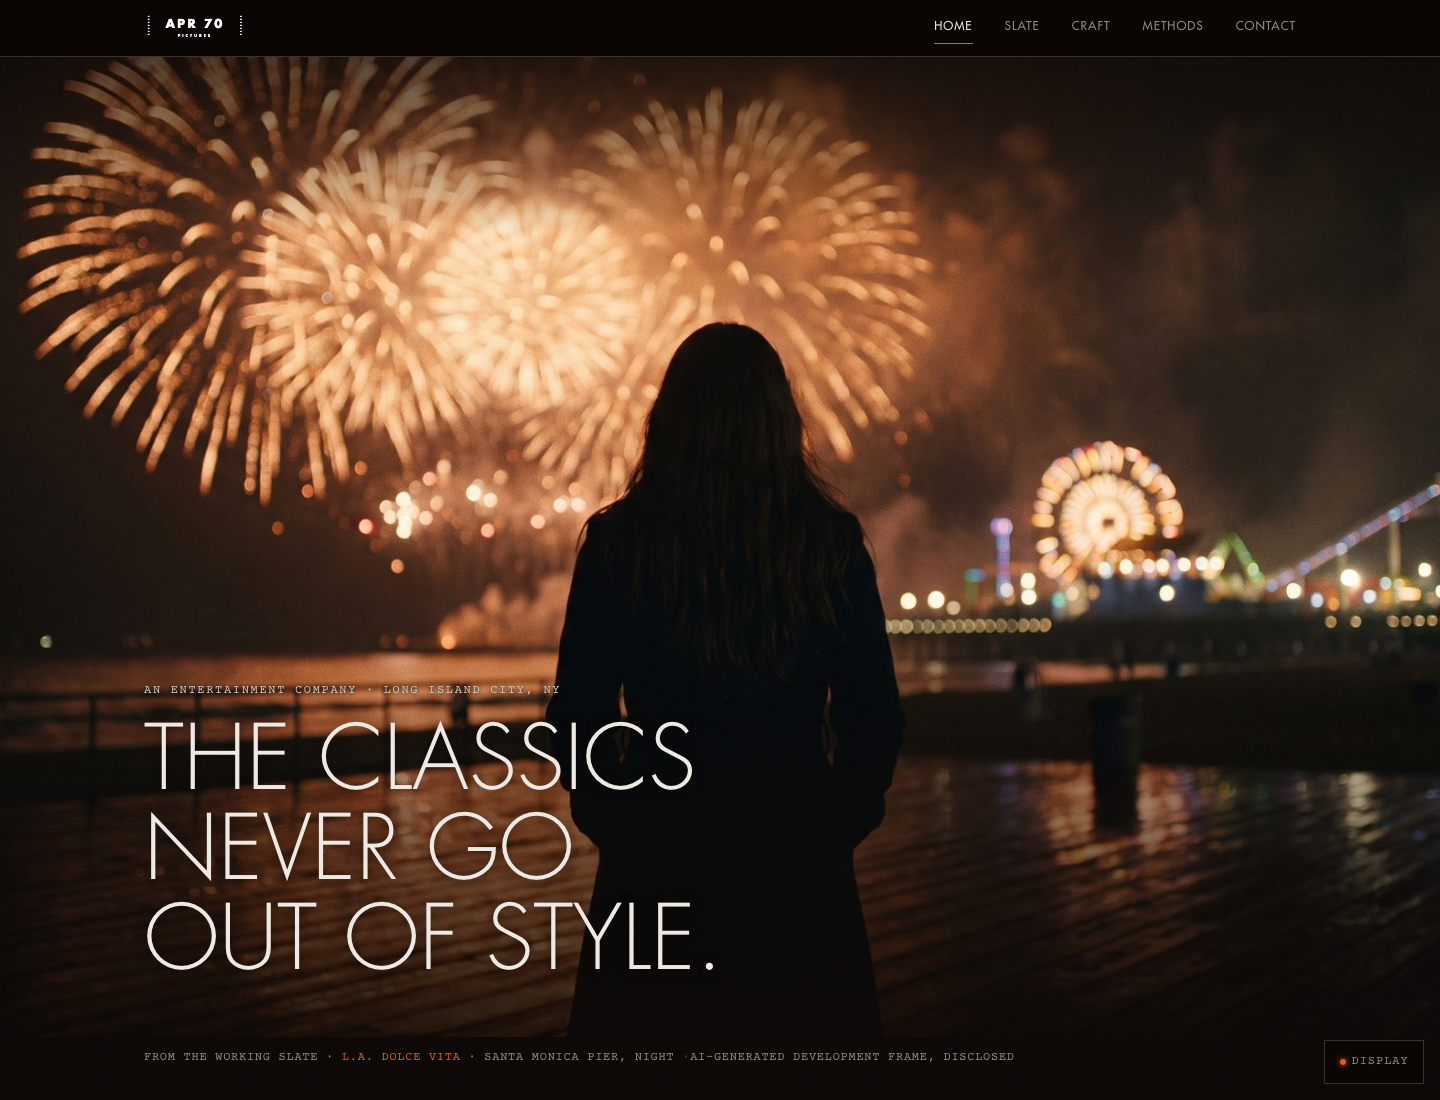
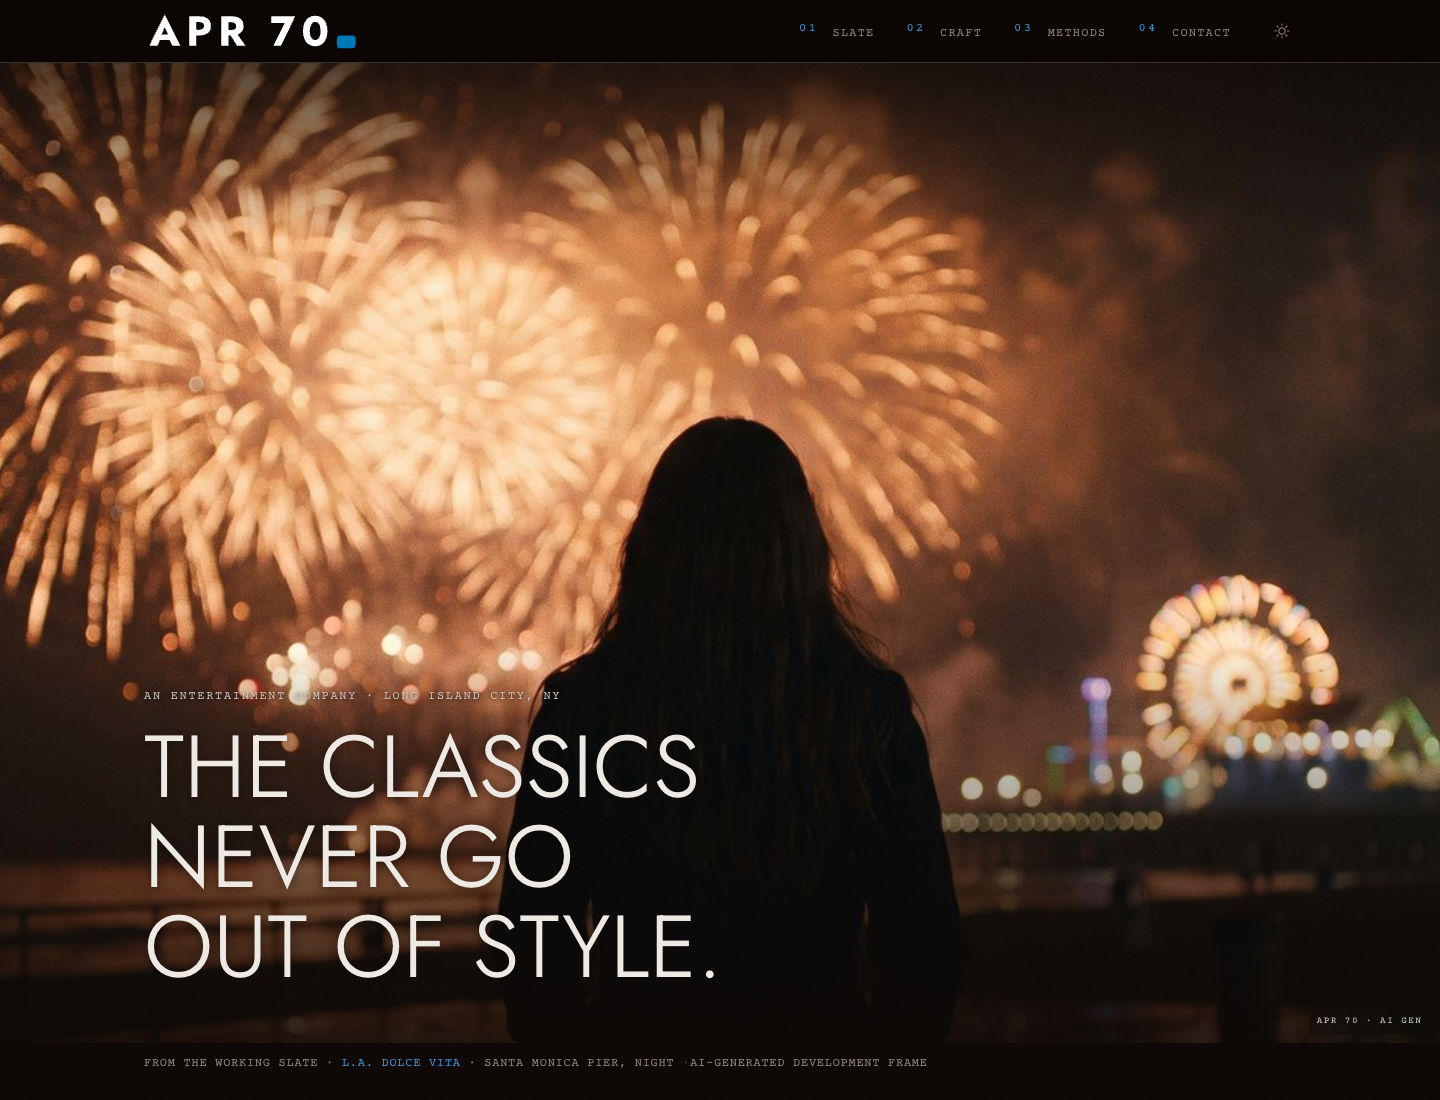
v14: SITE_VERSION bump, ledger row + refreshed shots, handoff archived, BRIEF/TASKS
Claude-Session: https://claude.ai/code/session_014yaFFbJ78r1ZF6rPhzZ7Kr

diff --git a/docs/recap/MASTER-RECAP.html b/docs/recap/MASTER-RECAP.html
@@ -217,7 +217,7 @@
       <div class="act"><b>The admin</b><p><a href="http://kimaserver:8080/admin">kimaserver:8080/admin</a> (or localhost:3000/admin in dev) · login caruso@apr70.com · password = <code>PAYLOAD_SEED_PASSWORD</code> in the NAS <code>/volume1/apps/apr70-pictures/.env</code>.</p></div>
       <div class="act"><b>Your brand controls</b><p>Admin → Globals → Site Settings → <b>Brand Kit</b>: logo, logo height, accent, rollover, highlight, default mode. Refresh the site and it wears the change.</p></div>
       <div class="act"><b>The Roll's names</b><p>Admin → Collections → <b>Founding Roll</b>. Emails and notes are visible only to you.</p></div>
-      <div class="act"><b>LIVE — the public site</b><p><a href="https://staging.apr70.com/">staging.apr70.com</a> serves <b>v13</b> as of 2026-07-18, with a valid certificate. Rollback via <code>deploy-v10-to-nas.sh --rollback</code> (or point the <code>apr70-staging</code> reverse-proxy rule back to the prior stack).</p></div>
+      <div class="act"><b>LIVE — the public site</b><p><a href="https://staging.apr70.com/">staging.apr70.com</a> serves <b>v14</b> as of 2026-09-03, with a valid certificate. Rollback via <code>deploy-v10-to-nas.sh --rollback</code> (or point the <code>apr70-staging</code> reverse-proxy rule back to the prior stack).</p></div>
       <div class="act"><b>LIVE — the front door</b><p><a href="https://apr70.com/">apr70.com</a> serves the holding page (source: <code>v10/holding/</code>), Web Station root <code>/volume1/web/apr70/</code>. Self-contained: zero third-party requests. The page it replaced leaked every visitor's IP to Google Fonts.</p></div>
       <div class="act"><b>⚠ www.apr70.com is broken</b><p>Its DNS A record points at <code>127.0.0.1</code> — for anyone on the internet, that is their own machine. It is why <code>www</code> could never be validated onto the TLS certificate. Fix the A record at Namecheap to <code>68.174.247.189</code>; until then <code>www</code> must be left OUT of any cert request or the whole issuance fails.</p></div>
       <div class="act"><b>Undo everything on the NAS</b><p><code>bash ~/websites/apr70-website/_deploy/deploy-v10-to-nas.sh --rollback</code> restores git, database, media, images from today's backup.</p></div>
@@ -265,7 +265,8 @@ cd ~/websites/apr70-website/v10/web && pnpm dev   # Astro on :4321</pre>
       <tr><td class="doc"><b>v10</b></td><td>2026-07-12</td><td>The truth, brand, and transaction pass: P0 privacy fix, Futura house face, Payload Brand Kit, divisions rebuilt per panel, Sea Gate + Da Hook to NRC, Founding Roll live, SharedData image fill, rights language, admin trim. Playwright 19/19. Deployed to kimaserver:8080; staging untouched.</td><td><a href="file:///Users/marco/vault/10%20Work/11%20APR70%20Pictures/11.14%20V10%20Build/00%20V10%20Change%20Register.md">V10 Change Register</a></td></tr>
       <tr><td class="doc"><b>v10</b> · UI + CMS pass</td><td>2026-07-13</td><td>Still v10 — the site is not being redesigned. Marquee lights around the property photos cut as true SVG circles (they were a repeating <code>radial-gradient(5px 4px …)</code> — an ellipse with a sub-pixel antialias ramp, which is why they never looked round at any zoom). Payload now reads <b>v10</b> everywhere, from a single <code>cms/src/siteVersion.ts</code> constant, so the admin can never lag the site again. DISPATCH un-hidden and parked behind a Payload switch: Site Settings → DISPATCH → Publish takes <code>/dispatch</code> live on refresh, no deploy; it ships OFF. Playwright 20/20.</td><td><a href="file:///Users/marco/vault/10%20Work/11%20APR70%20Pictures/11.03%20Company%20Ops/00%20Website%20-%20Version%20Status%20and%20Feedback.md">Website Version Status (vault)</a></td></tr>
       <tr><td class="doc"><b>v11</b></td><td>2026-07-13</td><td>Shipped and went public at staging.apr70.com (not the discarded design pass below — same number, different thing). Billing blocks to one source of truth, roll counter floored, slate hero frames, cursor restored, sprocket holes retired (option E), NRC ruled features-only, apr70.com one screen, <code>/troupe</code> built and gated dark on a real recording, favicons wired through Payload, division accents into Site Settings. E2e repeatable.</td><td><a href="file:///Users/marco/vault/10%20Work/11%20APR70%20Pictures/11.03%20Company%20Ops/00%20Website%20-%20Version%20Status%20and%20Feedback.md">Website Version Status (vault)</a></td></tr>
-      <tr><td class="doc"><b>v13</b> <span class="tag hot">CURRENT</span></td><td>2026-07-18</td><td>The chrome unification pass, three moves ruled by Marco 2026-07-18: the header nav now wears the route line's exact clothes — mono face, accent-blue superscript indices (01–04), underline retired, active route in ink — so the two menus read as one system (the route line stays on the front page as the zine's contents line; the header is the chrome); the mode icon is finally level with the nav for good — root cause fixed (the nav row aligned on <code>baseline</code>, which an svg-only button does not have; the row centres now, and the three prior pixel-nudges are deleted); and the property galleries gained the <b>cinema view</b> — click the picture (or the expand button) and it opens at full browser width on the house scrim, not the Fullscreen API, with the site's one slideshow: PLAY advances every 4.5&nbsp;s, any manual move stops it, ESC or × closes, scroll locks while open, focus returns to the button. Voice ruling: the site keeps the studio "we" (the JSON-LD already names the founder); no copy touched. The Light Law was recorded for the next stills pass (prompts from the script, natural light, less Hollywood — <code>tools/still-regen/LIGHT-LAW.md</code>). <b>DEPLOYED to staging.apr70.com 2026-07-18</b>; rollback via <code>deploy-v10-to-nas.sh --rollback</code>. <i>Ledger note 2026-09-02:</i> the v12.1 Futura takedown and v12.2 Punch passes (2026-07-27, rows below) shipped after this row under the unchanged <code>v13</code> constant, so "v13" spans three deployed states; the NAS ran commit <code>6a6fa4a</code> on 2026-09-02. <b>Restore point captured 2026-09-02:</b> tag <code>restore/v13-2026-09-02</code> = <code>6a6fa4a</code> (origin + nas); DB <code>_deploy-backup-v10-2026-09-02/nasdb-before.pgc</code> on the NAS; media <code>SharedData/_snapshots/10-10-cms-media-live-v13-2026-09-02/</code> (429 files). Procedure: <code>docs/plans/APR70_BRAND_BASELINE_AND_LAYERED_CINEMA_PLAN.md</code> §A.4.</td><td><a href="file:///Users/marco/vault/10%20Work/11%20APR70%20Pictures/11.03%20Company%20Ops/00%20Website%20-%20Version%20Status%20and%20Feedback.md">Website Version Status (vault)</a></td></tr>
+            <tr><td class="doc"><b>v14</b> <span class="tag hot">CURRENT</span></td><td>2026-09-03</td><td><b>The mobile pass.</b> Seven fixes on the marquee design, measured at 375&times;812 @2x on the production build: work-page galleries carry <code>srcset</code> again (L.A. Dolce Vita 2.7&nbsp;MB &rarr; 1.0&nbsp;MB); heroes take the original as a tier when no 1920 tier exists and the fold's <code>sizes</code> describes the cover crop (hero upscale 3.2&times; &rarr; 1.7&times;); non-hero folds are 4:5 on phones instead of a 156&nbsp;px band; the sticky header hides on scroll-down and returns on scroll-up, nav links 45&nbsp;px and the mode toggle 44&nbsp;px; the letterspaced mono has a 13&nbsp;px floor on phones (0 elements under 13&nbsp;px, was 35&ndash;43 a page); the LogoReveal splash runs at half length on coarse pointers (2.5&nbsp;s &rarr; 1.5&nbsp;s); fonts re-subset (already Latin, 12&nbsp;KB). Ships with the 2026-09-02 brand housekeeping (Punch fallbacks, brand-kit seed, vendored brand tree and Futura-named SVGs archived) and a new home fold: <b>&ldquo;Brooklyn, before it was a brand.&rdquo;</b> on the Borough Park portrait before &ldquo;On the page now.&rdquo;, written to DB, copy canon, and seed. The layered-cinema POC (three attempts) was killed the same week; decision record <code>docs/decisions/2026-09-02-layered-cinema-poc-no-go.md</code>; its tooling stays (cascade-trap notes, context-meter fix, screenshot helper). Deploy lesson: the NAS Docker daemon runs with iptables off, so builds use the host network (<code>build.network: host</code>). <b>DEPLOYED to staging.apr70.com 2026-09-03</b>; rollback via <code>deploy-v10-to-nas.sh --rollback</code>.</td><td><a href="file:///Users/marco/vault/10%20Work/11%20APR70%20Pictures/11.03%20Company%20Ops/00%20Website%20-%20Version%20Status%20and%20Feedback.md">Website Version Status (vault)</a></td></tr>
+      <tr><td class="doc"><b>v13</b></td><td>2026-07-18</td><td>The chrome unification pass, three moves ruled by Marco 2026-07-18: the header nav now wears the route line's exact clothes — mono face, accent-blue superscript indices (01–04), underline retired, active route in ink — so the two menus read as one system (the route line stays on the front page as the zine's contents line; the header is the chrome); the mode icon is finally level with the nav for good — root cause fixed (the nav row aligned on <code>baseline</code>, which an svg-only button does not have; the row centres now, and the three prior pixel-nudges are deleted); and the property galleries gained the <b>cinema view</b> — click the picture (or the expand button) and it opens at full browser width on the house scrim, not the Fullscreen API, with the site's one slideshow: PLAY advances every 4.5&nbsp;s, any manual move stops it, ESC or × closes, scroll locks while open, focus returns to the button. Voice ruling: the site keeps the studio "we" (the JSON-LD already names the founder); no copy touched. The Light Law was recorded for the next stills pass (prompts from the script, natural light, less Hollywood — <code>tools/still-regen/LIGHT-LAW.md</code>). <b>DEPLOYED to staging.apr70.com 2026-07-18</b>; rollback via <code>deploy-v10-to-nas.sh --rollback</code>. <i>Ledger note 2026-09-02:</i> the v12.1 Futura takedown and v12.2 Punch passes (2026-07-27, rows below) shipped after this row under the unchanged <code>v13</code> constant, so "v13" spans three deployed states; the NAS ran commit <code>6a6fa4a</code> on 2026-09-02. <b>Restore point captured 2026-09-02:</b> tag <code>restore/v13-2026-09-02</code> = <code>6a6fa4a</code> (origin + nas); DB <code>_deploy-backup-v10-2026-09-02/nasdb-before.pgc</code> on the NAS; media <code>SharedData/_snapshots/10-10-cms-media-live-v13-2026-09-02/</code> (429 files). Procedure: <code>docs/plans/APR70_BRAND_BASELINE_AND_LAYERED_CINEMA_PLAN.md</code> §A.4.</td><td><a href="file:///Users/marco/vault/10%20Work/11%20APR70%20Pictures/11.03%20Company%20Ops/00%20Website%20-%20Version%20Status%20and%20Feedback.md">Website Version Status (vault)</a></td></tr>
       <tr><td class="doc"><b>v12.2</b></td><td>2026-07-27</td><td><b>The Punch goes live.</b> Marco's ruled wordmark (E: Jost + true BH-1866 perf full stop) wired into the site: nav + new footer brand mark per theme, favicon-70 tiles (black / white-on-dark / division amber-imax-navy), 512 touch icon — all Payload-driven and swappable in Site Settings. Root-caused why admin picks "never arrived": the white-ink mark had been slotted into the light-theme field (invisible on paper); both slots now carry the correct ink. Home removed from the header nav (the mark is the way home). Media library carries the full 112-asset kit with generated thumbnails.</td><td><a href="file:///Users/marco/vault/10%20Work/11%20APR70%20Pictures/11.03%20Company%20Ops/brand/apr70-wordmark-ballot-2026-07-27.md">Wordmark ballot (vault)</a></td></tr>
       <tr><td class="doc"><b>v12.1</b></td><td>2026-07-27</td><td><b>The Futura takedown.</b> Licensing letter answered same-day: every FuturaStd file (woff2 + otf) purged from the apex holding page, the v10 app, the legacy monolith, the vault, and both build outputs; masters quarantined at SharedData 10-02-fonts/_ARCHIVED-futura-std-DO-NOT-USE (research only, never ships). House display face is now <b>Jost</b> (SIL OFL, self-hosted variable, normal + italic) at the same weights/sizes/tracking — the page reads near-identical. Old brand collateral (logos, monograms, cards, letterheads, favicons) archived whole at 10-01-logos/_ARCHIVED-futura-era-brand-2026-07-27-DO-NOT-USE. Permanent identity awaits the retype ballot (four OFL directions).</td><td><a href="file:///Users/marco/vault/10%20Work/11%20APR70%20Pictures/11.03%20Company%20Ops/brand/apr70-brand-retype-ballot-2026-07-27.md">Retype ballot (vault)</a></td></tr>
       <tr><td class="doc"><b>v12</b></td><td>2026-07-13</td><td>The founder's-eye polish, four small moves: gallery frames render at the picture's own aspect (the dark letterbox bed and rails are gone), slate row frames rest in full colour instead of the grayscale dim that read as pixelation, every caption carries one AI line ("AI-generated development frame", no ", disclosed") with the property-title prefix dropped from heroes, and the Apple touch icon ships as a real 180×180 PNG built from the amber mark (iOS ignores SVG). Copy canon, seeder, and admin examples all updated so a re-seed cannot re-arm the old pattern. Late additions on Marco's pass: the mode icon centred on the nav line, and the scaffold boilerplate spec replaced by a real CMS smoke test — 31/31 e2e. Marco's staging Payload edits (logo height 64, sicilian-blue accent, "Made in New York City" copyright) were diffed and adopted before the DB shipped. Zero third-party requests verified across ten routes. <b>DEPLOYED to staging.apr70.com 2026-07-13 evening</b>; rollback via <code>deploy-v10-to-nas.sh --rollback</code>.</td><td><a href="file:///Users/marco/vault/10%20Work/11%20APR70%20Pictures/11.03%20Company%20Ops/00%20Website%20-%20Version%20Status%20and%20Feedback.md">Website Version Status (vault)</a></td></tr>
@@ -277,7 +278,7 @@ cd ~/websites/apr70-website/v10/web && pnpm dev   # Astro on :4321</pre>
 <footer>
   <div class="col">
     <p>Guardrails held the whole run: no spend, nothing published, no one contacted, no images generated, money never moved. Sources of truth: branch <code>v11</code> of the apr70-pictures repository (site version constant <code>v12</code>), the SharedData media library, and the vault paper trail under 11.14 V10 Build / 11.12 V9 Build copy. This page makes zero external requests and sets its own type in Jost, Newsreader, Fraunces, and Courier Prime, the same stack the site serves (Futura Std retired for licensing 2026-07-27; quarantined on SharedData as research-only).</p>
-    <p class="copy">© 2026 APR 70 PICTURES. ORIGINAL WORKS RESERVED. · MASTER RECAP · LIVING DOCUMENT · LAST UPDATED 2026-09-02 · LEDGER NOTE UNDER V13 (FABLE 5.1); PRIOR 2026-07-13 GROK 4.5 AUDIT FIXES</p>
+    <p class="copy">© 2026 APR 70 PICTURES. ORIGINAL WORKS RESERVED. · MASTER RECAP · LIVING DOCUMENT · LAST UPDATED 2026-09-03 · V14 MOBILE PASS (FABLE 5.1); PRIOR 2026-09-02 LEDGER NOTE UNDER V13</p>
   </div>
 </footer>
 

diff --git a/cms/src/siteVersion.ts b/cms/src/siteVersion.ts
@@ -13,4 +13,4 @@
  * migration, not a label change, and it buys nothing: they are invisible in
  * the admin UI except in the address bar.
  */
-export const SITE_VERSION = 'v13'
+export const SITE_VERSION = 'v14'

diff --git a/BRIEF.md b/BRIEF.md
@@ -1,6 +1,6 @@
-# BRIEF — apr70-pictures (v13 on the NAS: staging.apr70.com = full site, apr70.com = holding page)
+# BRIEF — apr70-pictures (v14 on the NAS: staging.apr70.com = full site, apr70.com = holding page)
 
-**Current (2026-09-03, Fable 5.1 — mobile pass on the marquee site, branch `fix/mobile-pass` off main):** the layered-cinema POC is CLOSED (three attempts, all killed by Marco; decision doc `docs/decisions/2026-09-02-layered-cinema-poc-no-go.md`). The marquee site stays and is improved in place. Seven mobile fixes, measured at 375x812 @2x on the production build: work-page galleries now carry srcset (L.A. Dolce Vita 2.7MB → 1.0MB), heroes get the original as a srcset tier when no 1920 tier exists and the fold's `sizes` asks for the cover crop (hero upscale 3.2x → 1.7x), non-hero folds are 4:5 on phones instead of a 156px band, the sticky header hides on scroll-down and returns on scroll-up with 44px tap targets, the letterspaced mono floor is 13px on phones (0 elements under 13px, was 35 to 43 per page), the splash runs at half length on coarse pointers (2.5s → 1.5s), fonts re-subset (already Latin, only 12KB saved; the earlier "halve it" estimate was wrong). Kept from the POC branch: cascade-trap notes, context-meter fix, screenshot helper. Copy line "Brooklyn, before it was a brand." is LIVE on staging as a home photo fold (hero-portrait-v2, before "On the page now."), written to all three layers: NAS DB (SQL, section _order 9, later blocks shifted), the copy canon (`index.md` in the SharedData vault archive, `h1:` key), and seed-v9 (which now finds the canon at the archive path; the live vault no longer has 11.12 V9 Build). No SITE_VERSION bump: Marco's call (v14 candidate). **DEPLOYED to the NAS stack (staging.apr70.com) 2026-09-03 ~11:40 from `fix/mobile-pass` (87e80a0) and merged to `main`; verified on the public host at 375x812: six routes 200, 0 text under 13px, nav 45px / toggle 44px, folds 4:5, gallery on the 1024 tier, header hides on scroll. Deploy lesson: the NAS Docker daemon runs with iptables off, so build containers have no DNS; `docker-compose.yml` now builds on the host network (`build.network: host`). The deploy ran from the worktree with a scratch copy of the deploy script whose local-DB checks are skipped for code-only runs; the canonical `_deploy/deploy-v10-to-nas.sh` still requires the local Postgres for its preflight.**
+**Current (2026-09-03, Fable 5.1 — mobile pass on the marquee site, branch `fix/mobile-pass` off main):** the layered-cinema POC is CLOSED (three attempts, all killed by Marco; decision doc `docs/decisions/2026-09-02-layered-cinema-poc-no-go.md`). The marquee site stays and is improved in place. Seven mobile fixes, measured at 375x812 @2x on the production build: work-page galleries now carry srcset (L.A. Dolce Vita 2.7MB → 1.0MB), heroes get the original as a srcset tier when no 1920 tier exists and the fold's `sizes` asks for the cover crop (hero upscale 3.2x → 1.7x), non-hero folds are 4:5 on phones instead of a 156px band, the sticky header hides on scroll-down and returns on scroll-up with 44px tap targets, the letterspaced mono floor is 13px on phones (0 elements under 13px, was 35 to 43 per page), the splash runs at half length on coarse pointers (2.5s → 1.5s), fonts re-subset (already Latin, only 12KB saved; the earlier "halve it" estimate was wrong). Kept from the POC branch: cascade-trap notes, context-meter fix, screenshot helper. Copy line "Brooklyn, before it was a brand." is LIVE on staging as a home photo fold (hero-portrait-v2, before "On the page now."), written to all three layers: NAS DB (SQL, section _order 9, later blocks shifted), the copy canon (`index.md` in the SharedData vault archive, `h1:` key), and seed-v9 (which now finds the canon at the archive path; the live vault no longer has 11.12 V9 Build). **v14 SHIPPED 2026-09-03 on Marco's go:** `SITE_VERSION` v14; ledger row + refreshed shots in MASTER-RECAP; vault version note updated; handoff archived per rule 15. **DEPLOYED to the NAS stack (staging.apr70.com) 2026-09-03 ~11:40 from `fix/mobile-pass` (87e80a0) and merged to `main`; verified on the public host at 375x812: six routes 200, 0 text under 13px, nav 45px / toggle 44px, folds 4:5, gallery on the 1024 tier, header hides on scroll. Deploy lesson: the NAS Docker daemon runs with iptables off, so build containers have no DNS; `docker-compose.yml` now builds on the host network (`build.network: host`). The deploy ran from the worktree with a scratch copy of the deploy script whose local-DB checks are skipped for code-only runs; the canonical `_deploy/deploy-v10-to-nas.sh` still requires the local Postgres for its preflight.**
 
 **Current (2026-09-02, Fable 5.1 — discovery + header corrections):** brand baseline, layered-cinema brief, and PT/IT/FR/DE discovery are in `docs/plans/APR70_BRAND_BASELINE_AND_LAYERED_CINEMA_PLAN.md` (restore point A, identity inventory + archive manifest B, five-layer POC brief C, reference matrix D, skill + checklists E, i18n phasing F, 12 questions G).
 Plan §A.2 stale-header corrections APPLIED on Marco's go (this header, CLAUDE.md hosting lines, umbrella README, deploy-script final line, Vercel runbook status, RECAP v13 note). Vercel/Supabase are not the production path; the V4 block below is history. **Marco's rulings recorded in plan §G.1 and queued as TASKS Phase 11:** POC on `/` behind `?design=layered` (build now with PD plates), Punch kit canonical, brand dir archives to the NAS, restore tag on `6a6fa4a`, next bump is `v14`, Stop hook to skip subagent stops, rights-status label on every external reference. Ruled later the same day: go-live ships English first; Claude does the first translation round with Marco signing off each locale. **Done same day:** v13 restore point (tag `restore/v13-2026-09-02` on `6a6fa4a` + NAS dump + media snapshot), GitHub branch protection on `main`, hooks rewritten (per-session context meter; stop hook commits tracked files only, no BRIEF auto-notes), Crop Studio fixes (launcher PATH, arrows from the roll, Archive-to-90-archive), brand housekeeping (Punch fallbacks, brand tree + Futura-named SVGs archived to the NAS and removed, media 209 deleted, `seed-brand-kit.ts`). POC handoff for the parallel session: `docs/handoff/fable-2026-09-02-layered-cinema-poc.md` (worktree `poc/layered-cinema`). Housekeeping is on `main` but NOT deployed: it ships as `v14` with the POC after preflight and Marco's go.

diff --git a/docs/handoff/fable-2026-09-03-mobile-pass-v14.md b/docs/handoff/fable-2026-09-03-mobile-pass-v14.md
@@ -1,0 +1,11 @@
+# Handoff — 2026-09-03 — mobile pass, Brooklyn fold, v14 shipped (Fable 5.1)
+
+**State:** `main` carries the mobile pass (PR #5), the Brooklyn copy (PR #6), and the v14 bump. `SITE_VERSION` = v14. Deployed to the NAS stack (staging.apr70.com) from the worktree `~/websites/apr70-website/v10-poc` with a scratch copy of the deploy script (local-DB checks skipped for code-only runs; canonical script under `_deploy/` unchanged). Verified on the public host at 375x812 @2x: six routes 200, no text under 13px, nav 45px / toggle 44px, folds 4:5, gallery on the 1024 tier, header hides on scroll.
+
+**What shipped in v14** (numbers in `BRIEF.md` and the MASTER-RECAP v14 row): gallery srcset on work pages; hero original-as-tier + cover-crop `sizes`; 4:5 phone folds; header hide-on-scroll + 44px targets; 13px mono floor; quicker phone splash; font re-subset (12KB); the 2026-09-02 brand housekeeping; the home fold "Brooklyn, before it was a brand." (DB via SQL, copy canon in the SharedData vault archive, seed-v9 fallback to that path).
+
+**Closed:** the layered-cinema POC, three attempts, all killed. Record: `docs/decisions/2026-09-02-layered-cinema-poc-no-go.md`. Previous handoff (the POC's) is in `archive/`.
+
+**Lessons that now live in files:** Tailwind v4 `[hidden]` sits in `@layer base` with `!important` and cannot be un-hidden from site CSS (`docs/architecture/themes-and-ai.md`); the context meter no longer bills image payloads (CLAUDE.md rule 14); NAS Docker builds need `network: host` (docker-compose.yml comment); for design work, show the direction before building it (decision doc).
+
+**Open:** nothing blocking. Candidates: the copy line on the A Need Grows in Brooklyn project page itself (Marco asked whether it is there; it is on the home page only); the canonical deploy script's local-DB preflight for code-only deploys; production-quality fills are not needed (POC dead).
